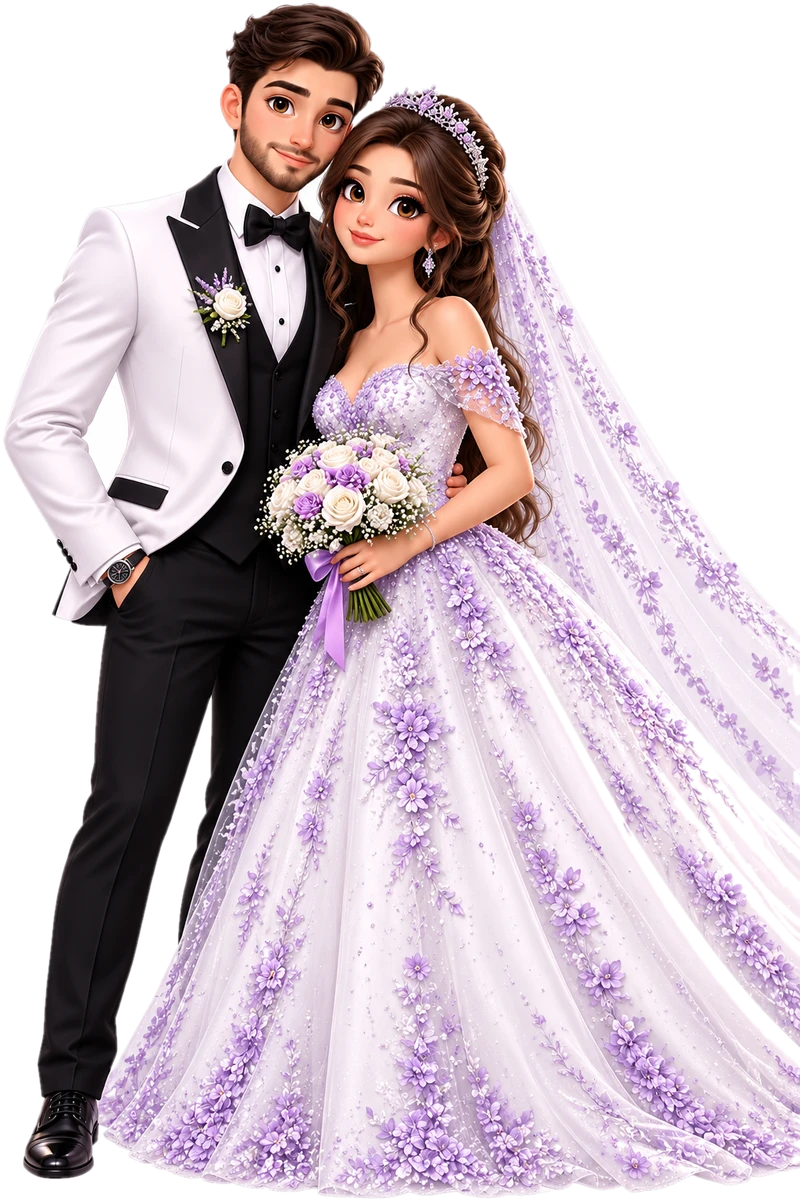
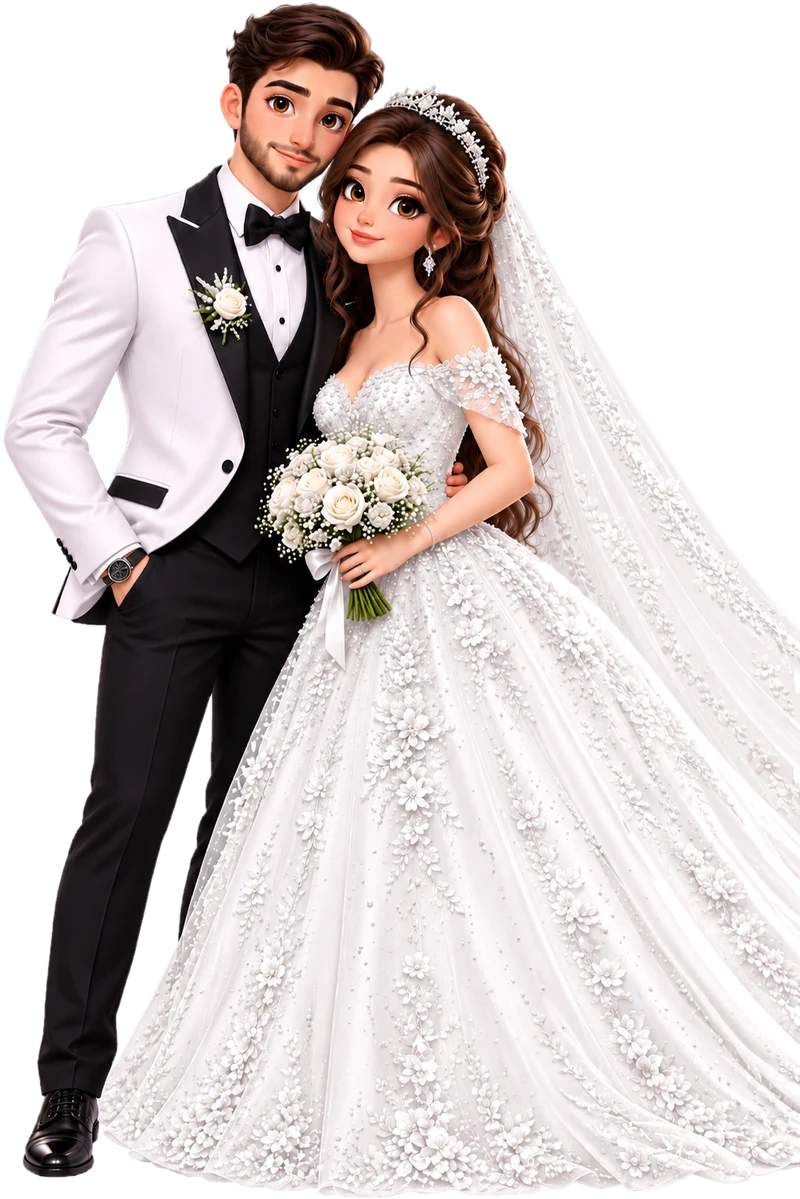
Use white-dress couple illustration; dress code without white

diff --git a/app/globals.css b/app/globals.css
@@ -399,7 +399,7 @@ button { font: inherit; cursor: pointer; }
 }
 .dress-title { font-family: var(--f-head); color: var(--ink); font-size: 1.3rem; letter-spacing: 0.04em; }
 .swatches { list-style: none; margin: 0.75rem 0 0.5rem; padding: 0; display: grid; grid-template-columns: repeat(3, 4.25rem); justify-content: center; gap: 1rem 1.25rem; }
-@media (min-width: 560px) { .swatches { grid-template-columns: repeat(6, 4rem); gap: 1rem 0.75rem; } }
+@media (min-width: 560px) { .swatches { grid-template-columns: repeat(5, 4rem); gap: 1rem 0.75rem; } }
 .swatches li { display: flex; flex-direction: column; align-items: center; gap: 0.4rem; }
 .swatch {
   width: 3rem; height: 3rem; border-radius: 50%;

diff --git a/lib/wedding.ts b/lib/wedding.ts
@@ -40,15 +40,14 @@ export const wedding = {
 
   // Dress code shown under the Details cards
   dressCode: {
-    title: "Our theme colours & white",
-    note: "We'd love to see you in soft lavender, mauve, plum, blush or white.",
+    title: "Our theme colours",
+    note: "We'd love to see you in soft lavender, mauve, plum, blush or taupe.",
     colors: [
       { name: "Lavender", hex: "#CFC5D8" },
       { name: "Mauve", hex: "#A497B0" },
       { name: "Plum", hex: "#6E5684" },
       { name: "Blush", hex: "#E8D9CF" },
       { name: "Taupe", hex: "#C8AA98" },
-      { name: "White", hex: "#FFFFFF" },
     ],
   },
 
